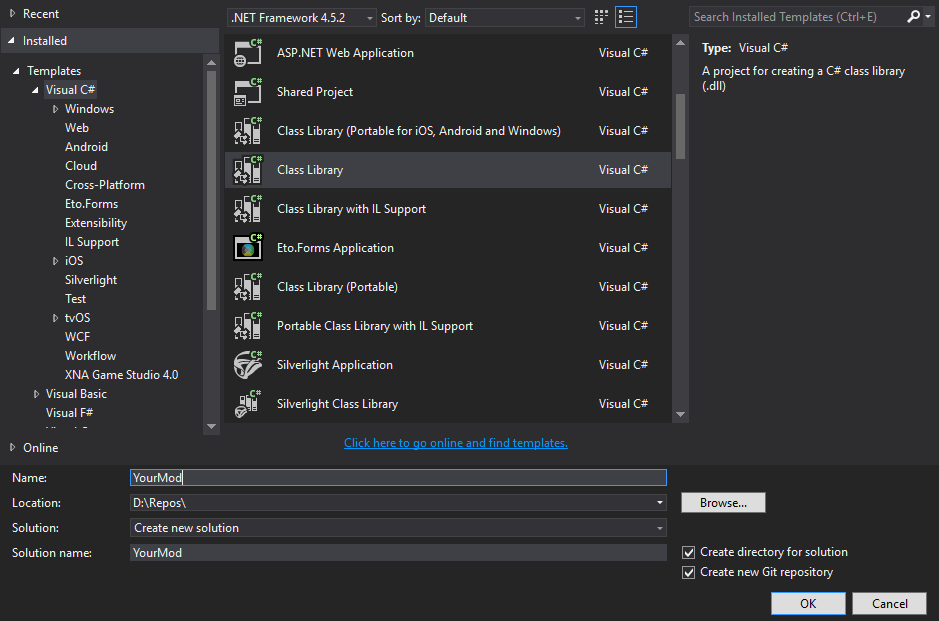
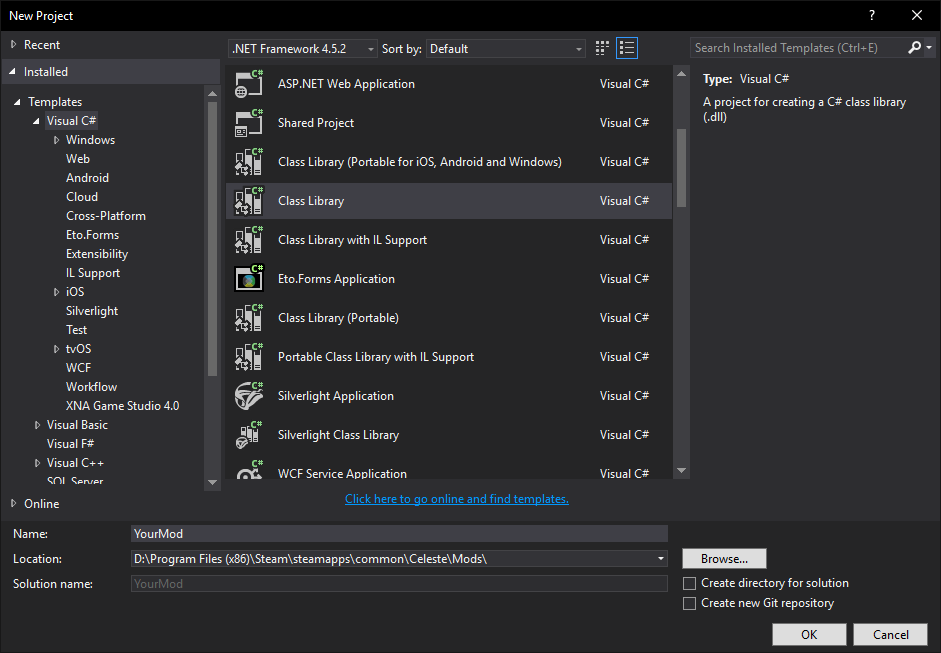
Easier code mod setup

diff --git a/tutorials/firstcodemod.md b/tutorials/firstcodemod.md
@@ -13,91 +13,58 @@ _description: "What project template do I use? How do I make my options show up?
 <p>
 <li>Everest: [Website](/)</li>
 <li>Visual Studio 2015 or newer. MonoDevelop instructions are different.</li>
-<li>NuGet, either for your IDE, or CLI.
-    <ul>
-        <li>Visual Studio 2017: Included</li>
-        <li>Visual Studio 2015: [Download NuGet.Tools.vsix](https://dist.nuget.org/visualstudio-2015-vsix/latest/NuGet.Tools.vsix)</li>
-        <li>Linux / macOS: CLI version included with Mono.</li>
-        <li>Windows: [Download nuget.exe](https://dist.nuget.org/win-x86-commandline/latest/nuget.exe)</li>
-    </ul>
-</li>
-<li>_Optional:_ git, either [CLI](https://git-scm.com/downloads) or GUI client (f.e. [GitHub Desktop](https://desktop.github.com/))</li>
 </p>
 </div>
 
 ----
 
-## Project setup
-
 Every Everest code mod starts out as a C# (.NET Framework) class library targeting the .NET Framework 4.5.2 (same as Celeste itself).
 
+## Project setup
+
+> [!NOTE]
+> If you want a more traditional C# project setup, follow the [old advanced project setup instructions](https://github.com/EverestAPI/EverestAPI.github.io/blob/a789878761965db62c4f3c98f2bda58828e307a4/tutorials/firstcodemod.md#project-setup).
+
+This setup doesn't require NuGet or git, but if you're a Windows user, you'll need to switch to the OpenGL branch. Linux and macOS users are already using FNA. **Everest will relink your mod from FNA to XNA at runtime.**
+- In Steam, right-click the game in your library, select "Properties" and select the `opengl` "beta".
+- In itch, &lt;insert itch instructions here&gt;
+
+After the update has finished, make sure to reinstall Everest.
+
+- Open your C# IDE (f.e. Visual Studio 2015).
 - Create a new project.
 - In the top bar, select `.NET Framework 4.5.2`
 - In the left bar, select `Installed` > `Visual C#`
 - Select the template `Class Library` or `Class Library (.NET Framework)` (**not** `Standard`, `Core`, `Portable`, `Universal Windows`, ...).
-- Name your mod appropriately and create it in a new solution.
-- Create a new directory for the solution.
+- Create your mod in Celeste/Mods
 
 The dialog should look like this:
 
 ![1-newproj](/images/firstcodemod/1-newproj.png)
 
-## Adding Everest and Celeste
+- Create a new `everest.yaml` text file with the following content:
 
-Now that you've created a new, empty project, it's time to add the Everest API.
-
-### Adding Everest files
-
-If your new project is a git repository, add Everest as a submodule.
-
+```yaml
+- Name: YourMod
+  Version: 1.0.0
+  DLL: Code/bin/Debug/YourMod.dll
+  Dependencies:
+    - Name: Everest
+      Version: 1.0.0
 ```
-git submodule add https://github.com/EverestAPI/Everest.git
-```
-
-Otherwise, download the Everest source code .zip ([master](https://github.com/EverestAPI/Everest/archive/master.zip), [stable](https://github.com/EverestAPI/Everest/archive/stable.zip)) and place it as `Everest` in your project directory.
-
-The file layout should look similar to this:
-
-![2-everestdir](/images/firstcodemod/2-everestdir.png)
-
-### Adding Everest project
-
-In Visual Studio, right-click the _solution_ and add the existing Everest project.
-
-![3-addeverestproj](/images/firstcodemod/3-addeverestproj.png)
-
-Navigate to where your project is, then into the Everest submodule, then Celeste.Mod.mm, then the matching `.csproj` project file.
-
-Afterwards, right-click on Celeste.Mod.mm and build it.
-
-Everest (Celeste.Mod.mm) should now exist as a project in your solution like this:
-
-![4-addedeverestproj](/images/firstcodemod/4-addedeverestproj.png)
 
 > [!NOTE]
-> If the compiler complains about the nuget packages not being found, right-click the references, select "Manage NuGet packages..." and restore them.
+> For more info about the mod structure, the `everest.yaml` format, how to add extra content and on how to zip up your mod, [read the mod structure page](/tutorials/modstruct.html).
 
-### Adding References
+- Right-click your project's "References" and select "Add Reference...", then "Browse..." into your Celeste installation directory and setup your references like on the following screenshot:
 
-**Everest comes with most of its dependencies in the `lib` and `lib-stripped` subdirectories.**
-- `lib` contains all libraries ready to be used by your mod as-is.
-- `lib-stripped` contains copies of a select few game binaries, stripped with `mono-cil-strip`. They don't contain any executable code and only contain the definitions for you to compile against.
-
-> [!NOTE]
-> Everest mods are built with the [FNA branch of Celeste](https://fna-xna.github.io/) to make use of its [API extensions](https://github.com/FNA-XNA/FNA/wiki/5:-FNA-Extensions) and for cross-platform compatibility. **Everest will relink your mod from FNA to XNA at runtime.**
-
-Right-click your project's "References" and select "Add Reference...", then set up the references so that they look like in the following screenshot:
-
-![5-addedeverestrefs](/images/firstcodemod/5-addedeverestrefs.png)
-
-> [!NOTE]
-> `MMHOOK_Celeste.dll` is automatically generated when you install Everest. Copy it from your Celeste directory to your project directory and add it as a reference.
+![2-refs](/images/firstcodemod/2-refs.png)
 
 > [!IMPORTANT]
-> Make sure to go into the properties of each included reference and set "Copy Local" to "False", otherwise Visual Studio will include outdated / conflicting copies in your mod. 
+> Make sure to select all those references, right-click > "Properties" and set "Copy Local" to "False", or you will accidentally include copies of those files in your mod!
 
 > [!IMPORTANT]
-> If you want to maintain cross-platform compatibility, make sure to remove any .NET Framework references not on this list.
+> If you want to maintain cross-platform compatibility, make sure to only use .NET Framework system libraries from this list.
 > - System
 > - System.Configuration
 > - System.Core
@@ -108,7 +75,7 @@ Right-click your project's "References" and select "Add Reference...", then set 
 > - System.Xml
 > - System.Xml.Linq
 >
-> This means: Microsoft.CSharp, System.Windows.Anything, System.IO.Compression and other libraries are not available on Linux / macOS.  
+> This means: Microsoft.CSharp, System.Windows.Anything, System.IO.Compression and other libraries must be removed from your references.  
 > For an up-to-date list, check the [list of precompiled MonoKickstart libraries](https://github.com/flibitijibibo/MonoKickstart/tree/master/precompiled), as Celeste uses them for Linux / macOS.
 
 ## Module class
@@ -117,7 +84,7 @@ Your module class should look similar to the example.
 
 > [!NOTE]
 > This example only shows a subset of Everest's capabilities.  
-> [**Read the full `EverestModule` documentation here.**](https://everestapi.github.io/api/Celeste.Mod.EverestModule.html)
+> [**Read the full `EverestModule` documentation here.**](/api/Celeste.Mod.EverestModule.html)
 
 ```cs
 // Example usings.
@@ -182,7 +149,7 @@ Save data classes are very similar, but inherit from `EverestModuleSaveData` and
 > **All entries must be properties**, unless you're overriding `LoadSettings` and `SaveSettings` / `LoadSaveData` and `SaveSaveData` to bypass YamlDotNet's restrictions.
 >
 > This example only shows a subset of Everest's capabilities.  
-[**Read the full `EverestModuleSettings` documentation here.**](https://everestapi.github.io/api/Celeste.Mod.EverestModuleSettings.html)
+[**Read the full `EverestModuleSettings` documentation here.**](/api/Celeste.Mod.EverestModuleSettings.html)
 >
 > For all settings attributes, search for `Celeste.Mod.Setting` in the Everest API.
 
